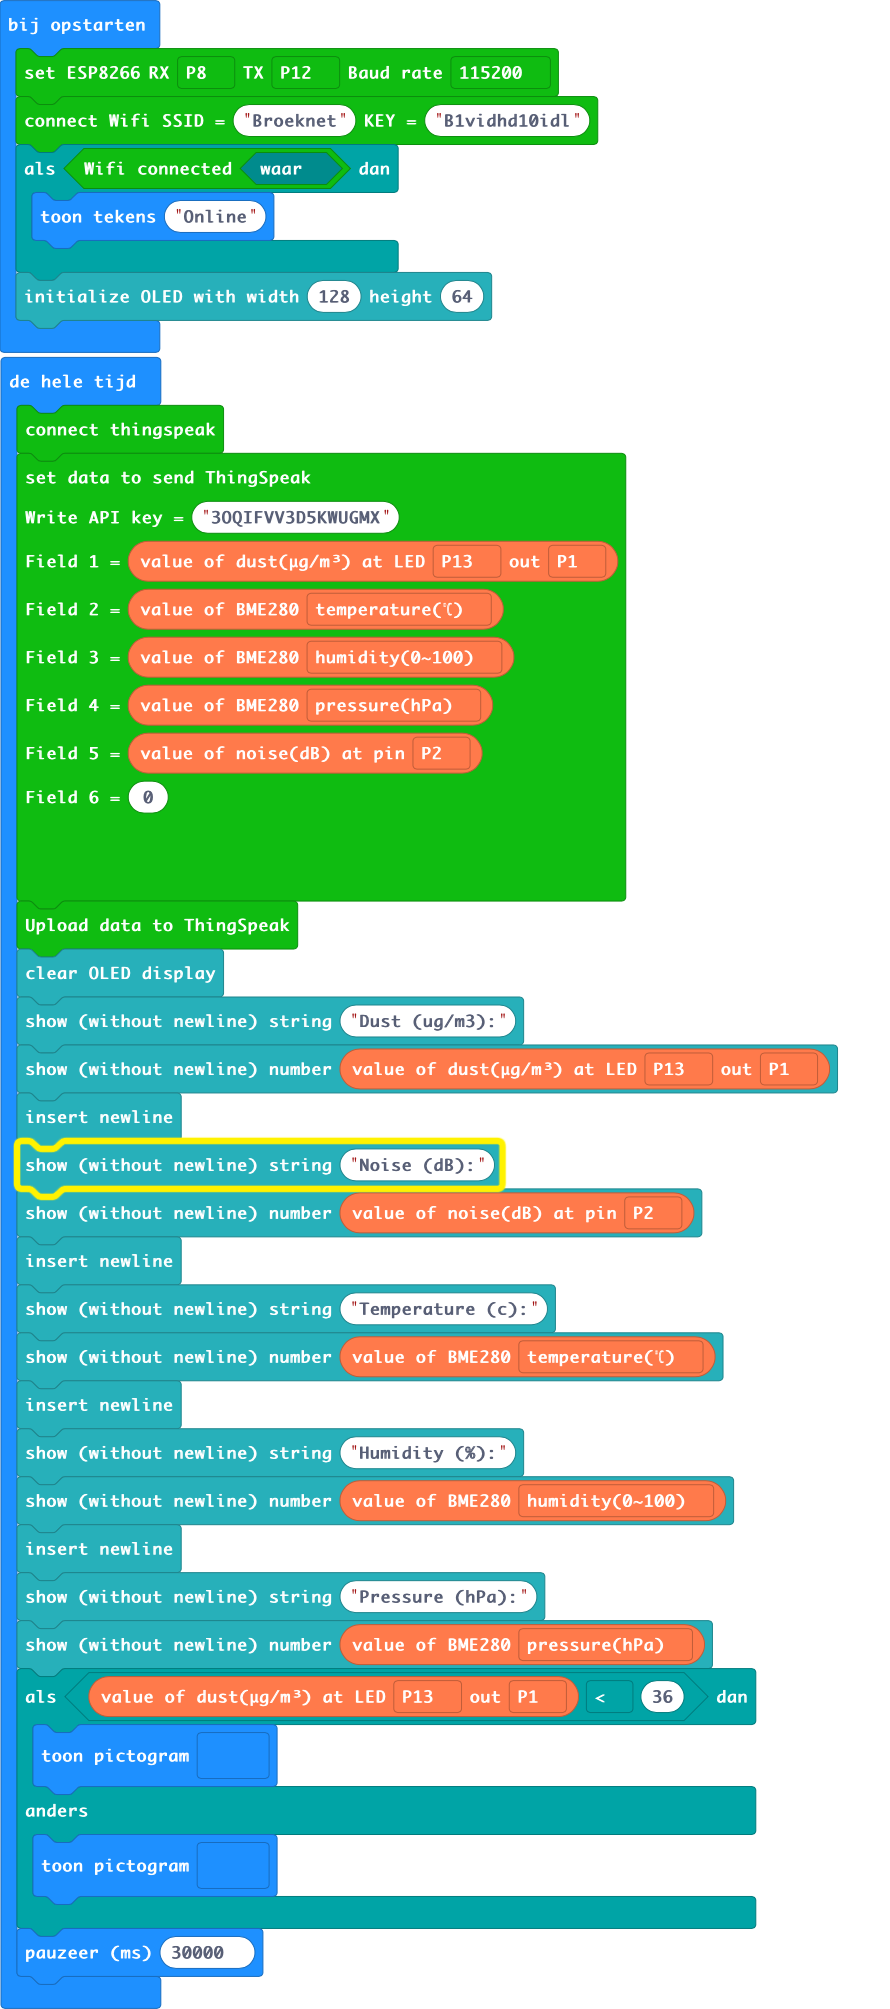
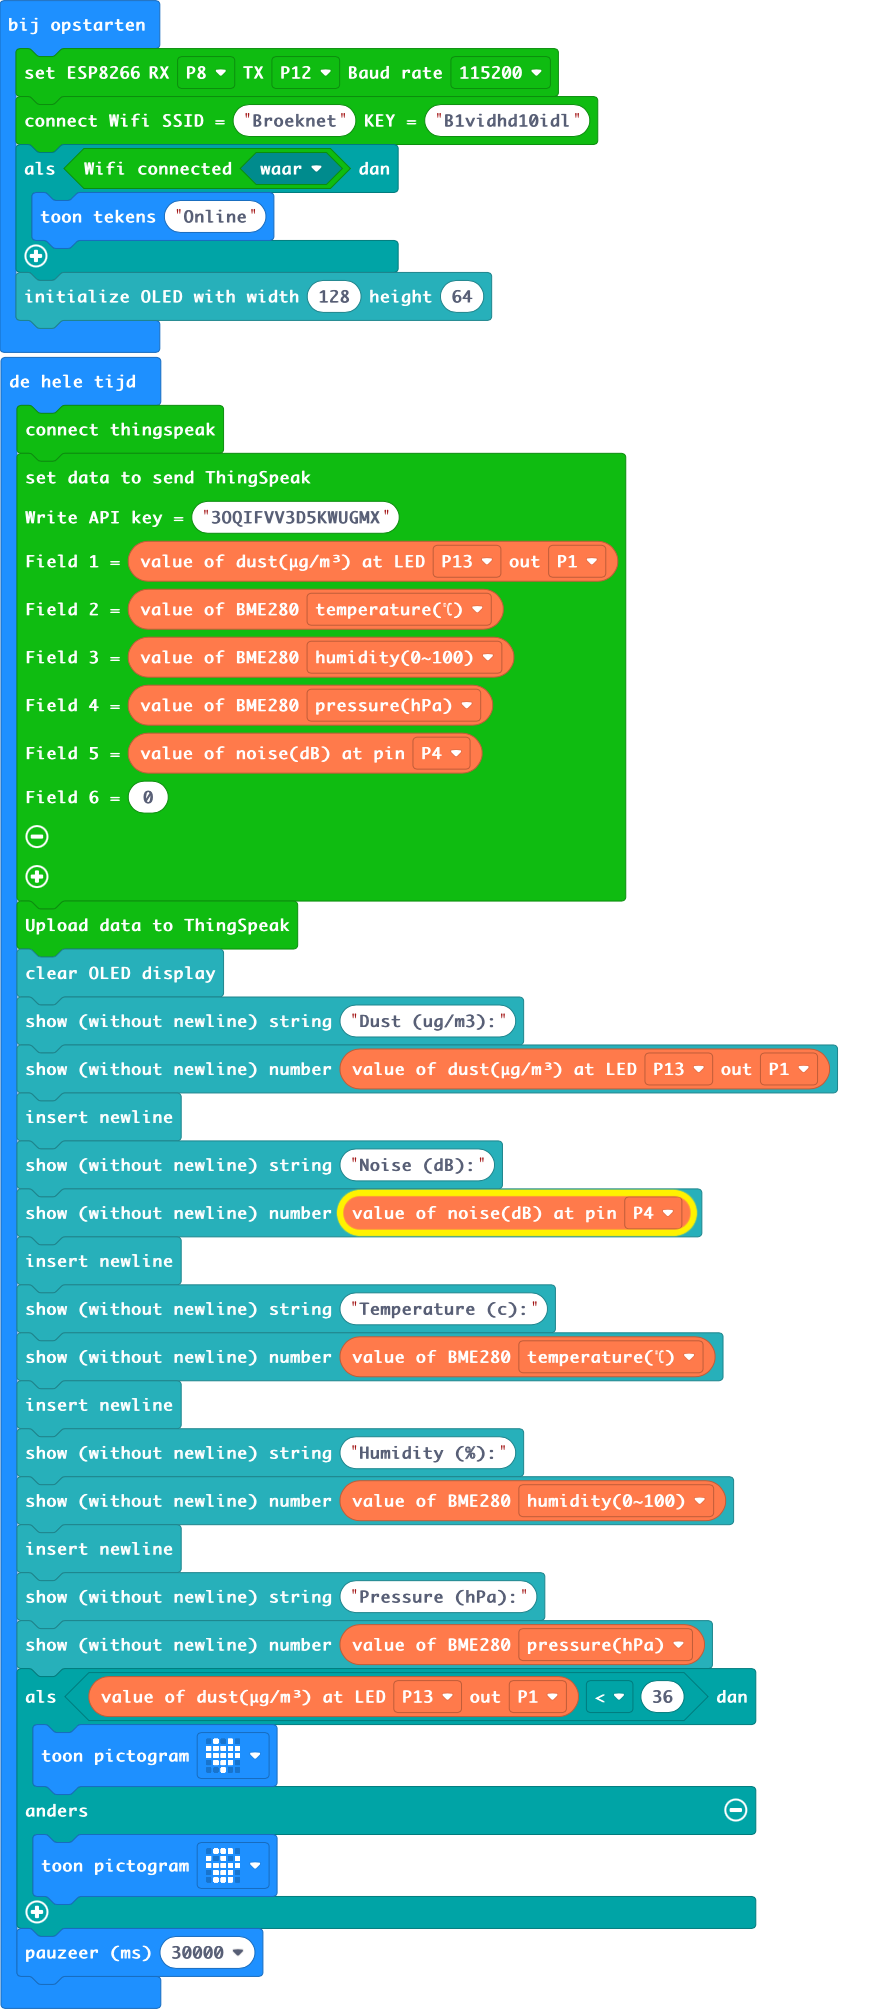
Moved noise sensor to P4

diff --git a/main.ts b/main.ts
@@ -12,7 +12,7 @@ basic.forever(function () {
     Environment.octopus_BME280(Environment.BME280_state.BME280_temperature_C),
     Environment.octopus_BME280(Environment.BME280_state.BME280_humidity),
     Environment.octopus_BME280(Environment.BME280_state.BME280_pressure),
-    Environment.ReadNoise(AnalogPin.P2),
+    Environment.ReadNoise(AnalogPin.P4),
     0
     )
     ESP8266_IoT.uploadData()
@@ -21,7 +21,7 @@ basic.forever(function () {
     OLED.writeNum(Environment.ReadDust(DigitalPin.P13, AnalogPin.P1))
     OLED.newLine()
     OLED.writeString("Noise (dB):")
-    OLED.writeNum(Environment.ReadNoise(AnalogPin.P2))
+    OLED.writeNum(Environment.ReadNoise(AnalogPin.P4))
     OLED.newLine()
     OLED.writeString("Temperature (c):")
     OLED.writeNum(Environment.octopus_BME280(Environment.BME280_state.BME280_temperature_C))
